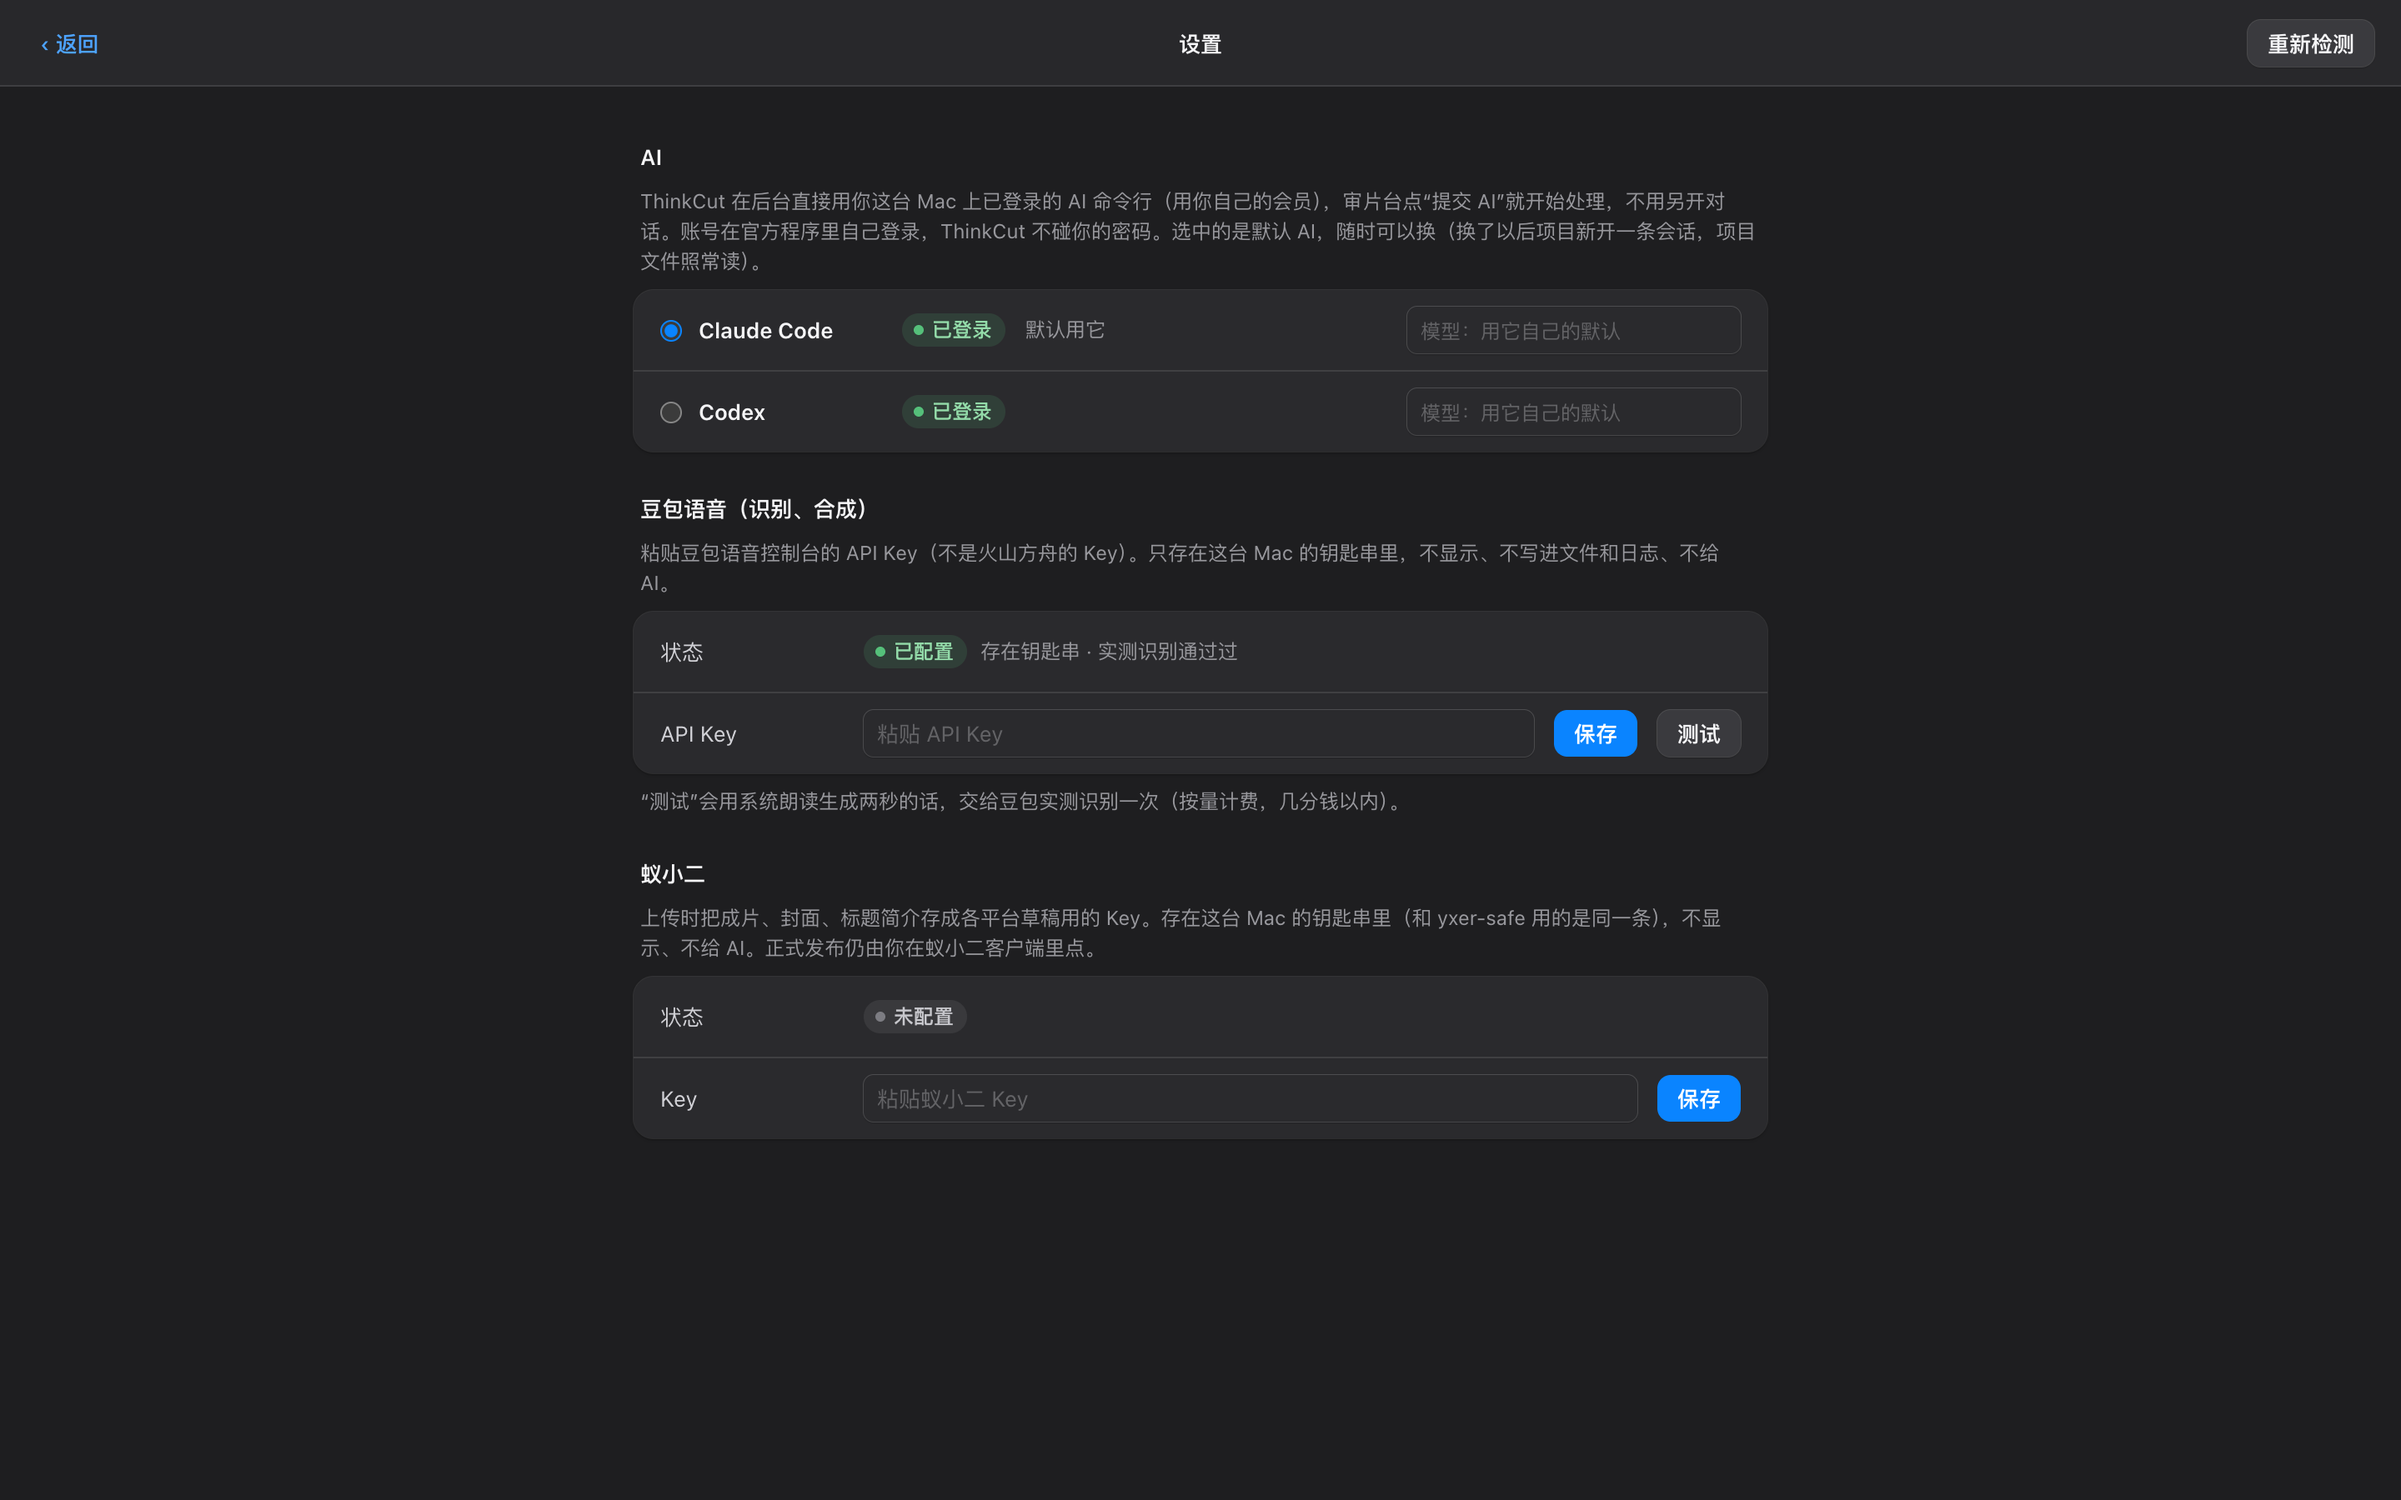
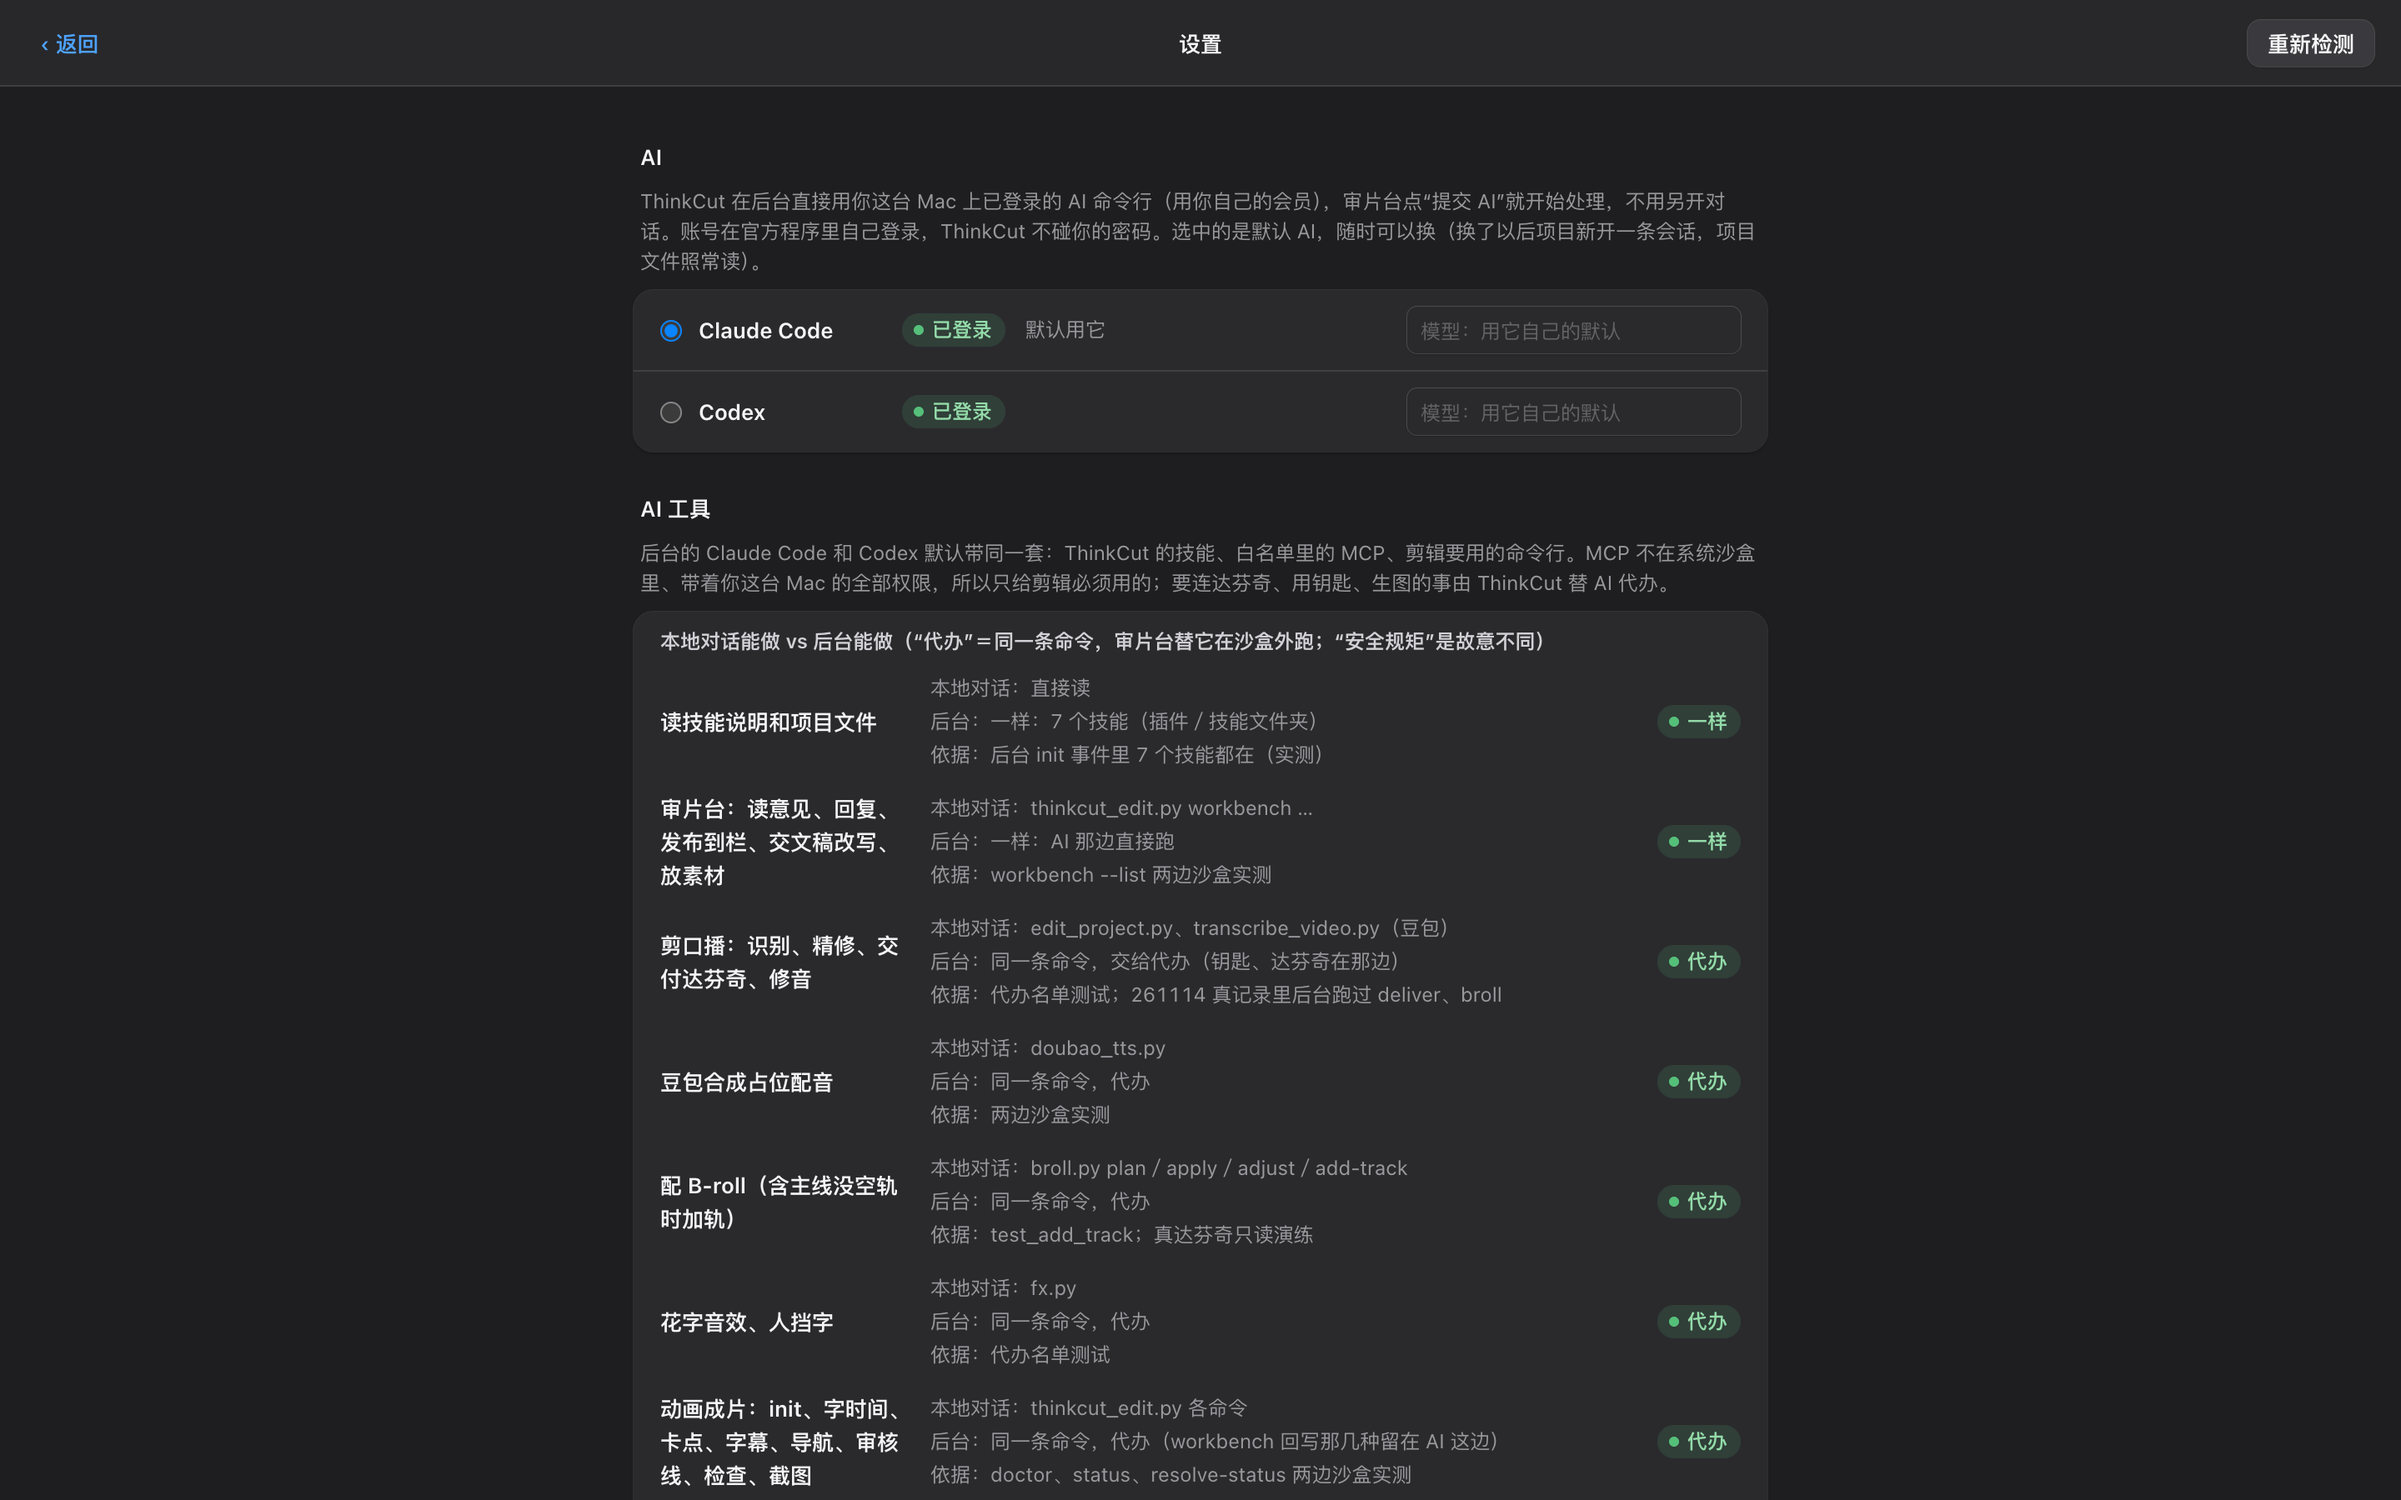
ThinkCut · 思刻 2026-11-28.4：README 和截图跟上新功能

diff --git a/docs/releases/v2026.11.28.3.md b/docs/releases/v2026.11.28.3.md
@@ -1,0 +1,68 @@
+<!-- GitHub Release 说明：2026-11-27.3 到 2026-11-28.3（标签 v2026.11.28.3）。贴进 Release 时整页复制；图片用的是公开仓库 main 上的地址。 -->
+
+# ThinkCut · 思刻 2026-11-28.3
+
+**这几版的大事：剪口播更快，后台 AI 更全。** 口播 1.2 倍速改在达芬奇里设，不再把整条视频重压一遍；后台 AI 带齐了 ThinkCut 的技能，本地对话能做的它都能做，还能在护栏里用达芬奇 MCP；对话框支持斜杠命令。
+
+包含 2026-11-27.3 到 2026-11-28.3 的变化。
+
+<picture>
+  <source media="(prefers-color-scheme: dark)" srcset="https://github.com/devinwu2012/thinkcut/raw/main/docs/screenshots/settings-dark.png">
+  <img alt="设置页：上面选用哪个 AI，下面“AI 工具”逐项对照本地对话和后台各怎么做。" src="https://github.com/devinwu2012/thinkcut/raw/main/docs/screenshots/settings-light.png" width="880">
+</picture>
+
+## 剪口播
+
+- **1.2 倍速不再重压视频**：只把声音做成 1.2 倍速去识别、剪辑，放进达芬奇时用原片设 120% 速度。13 分钟口播从约 10 分钟、几 GB 降到十几秒、几十 MB。说“这条不加速”照旧，老项目不受影响。（2026-11-27.3）
+- **人声剪好后整条修**：`edit_project.py polish` 一条命令在主线的副本上修音（主线不动），忽大忽小的段自动补齐。（2026-11-27.4）
+- **有真口播就用真口播**：先用机器配音占位、后来剪好真口播的项目，口播精剪栏直接显示真口播；保存到达芬奇后项目自动换成真口播。（2026-11-27.5）
+- 重剪口播后，口播精剪栏显示新剪的；新主线的画幅和上一版一样；轻声字尾不再留下长停顿。（2026-11-27.4）
+- 换口播后字的时间跟着重算；在达芬奇里播放时，审片栏的高亮和时间条跟着往前走，暂停后对准达芬奇的实际位置。（2026-11-27.6）
+
+## 后台 AI
+
+- **斜杠命令**：对话框里输入 / 弹出能用的命令，如 /goal（让 AI 一直做到目标达成）、/compact、/context、ThinkCut 的技能，和 /clear、/stop、/model、/help。后台用不了的会说清原因，改权限、关沙盒的命令不放行。（2026-11-27.3）
+- **带齐技能**：Claude 和 Codex 在后台都带同一套 ThinkCut 技能和剪辑要用的命令行，不再带和剪辑无关、能控制电脑或浏览器的 MCP；一律用中文回复。设置页新增“AI 工具”：每个 AI 能用什么、缺什么、为什么不给，一键补齐技能链接。（2026-11-28.1）
+- **本地能做的后台都能做**：Blender 镜头、导航条出片、素材库、交反馈单、新建 IP 等都能在后台做；只剩导出、发布、定稿只认页面，删除进回收站，不给钥匙、不联网这些安全规矩不同。“AI 工具”里有逐项对照表。（2026-11-28.2）
+- **达芬奇 MCP（带护栏）**：后台 AI 能用达芬奇 MCP 看和小改当前工程；渲染导出、删除、切换工程、装插件这类工具整个禁用，别处正在写达芬奇时它不写。（2026-11-28.2）
+- 配 B-roll 时主线只有口播一条画面轨，AI 能先演练、再加一条空的 B-roll 轨（不动片段）；查达芬奇状态有专门的只读命令，不再卡住。（2026-11-28.1）
+
+## 界面
+
+- 窗口窄或打开对话栏时，审片台顶栏的栏目不再被挤没：栏目一直完整显示，AI 和达芬奇的状态先收成小圆点（点开照样能看、能换），实在太窄栏目可以左右滑、当前栏一直看得见；首页顶栏同样按宽度让位。（2026-11-27.4）
+
+## 升级
+
+拿新代码后重新跑一次 `bash bin/build_app.sh --install`（装了 Mac 程序的话），打开“设置”→“AI 工具”，缺技能链接就点“一键补齐”。
+
+完整说明见 [README](https://github.com/devinwu2012/thinkcut#readme)；每版一句话的变化见 [RELEASE_NOTES.md](https://github.com/devinwu2012/thinkcut/blob/main/RELEASE_NOTES.md)。
+
+---
+
+# ThinkCut · 思刻 2026-11-28.3 (English)
+
+**The big changes: faster voice-over cutting and a fully equipped background AI.** The 1.2× speed-up is now set in DaVinci Resolve instead of re-encoding the whole video; the background AI carries all of ThinkCut's skills, can do everything the local chat can, and can use the DaVinci Resolve MCP behind a guard; the chat box supports slash commands.
+
+Covers 2026-11-27.3 through 2026-11-28.3.
+
+## Voice-over cutting
+
+- **1.2× without re-encoding:** only the audio is sped up for transcription and cutting; in Resolve the original clips get a 120% speed. A 13-minute voice-over goes from about 10 minutes and several GB to a dozen seconds and tens of MB. “No speed-up for this one” still works; older projects are unaffected. (2026-11-27.3)
+- **Voice polish after the cut:** `edit_project.py polish` polishes the whole voice track on a copy of the main timeline (the main stays untouched) and evens out loud and quiet stretches. (2026-11-27.4)
+- **Real voice-over wins:** in projects that started with a TTS placeholder, the voice-over column shows the real recording once it's cut, and the project switches to it after saving to Resolve. (2026-11-27.5)
+- After a re-cut, the voice-over column shows the new cut, the new main timeline keeps the previous format, and soft word endings no longer leave long pauses. (2026-11-27.4)
+- Word timings are recalculated after switching voice-overs; while Resolve plays, the Review column's highlight and timeline follow along and line up with Resolve when paused. (2026-11-27.6)
+
+## Background AI
+
+- **Slash commands:** type / in the chat box for /goal (keep working until a goal is met), /compact, /context, ThinkCut's skills, /clear, /stop, /model and /help. Commands the background can't run say why; ones that change permissions or turn off the sandbox are refused. (2026-11-27.3)
+- **Fully equipped:** Claude and Codex both carry the same ThinkCut skills and command-line tools in the background, without unrelated MCP servers that could control the computer or a browser, and always reply in Chinese. New **AI tools** section in Settings: what each AI can use, what's missing and why, with one-click skill linking. (2026-11-28.1)
+- **Same abilities as local chat:** Blender shots, chapter-bar rendering, the footage library, feedback forms, creating profiles and more now work in the background; only the safety rules differ (export/publish/finalize from the page only, deletes go to the recycle folder, no keys, no network). A side-by-side table is in AI tools. (2026-11-28.2)
+- **DaVinci Resolve MCP, guarded:** the background AI can inspect and make small edits to the open project; render/export, delete, project switching and plugin installs are blocked, and it won't write while another session is writing to Resolve. (2026-11-28.2)
+- When the main timeline has only the voice-over video track, the AI can dry-run and then add an empty B-roll track (clips untouched); a read-only command checks Resolve's state without hanging. (2026-11-28.1)
+
+## Interface
+
+- A narrow window or an open chat sidebar no longer squeezes out the column tabs: tabs always stay whole, the AI and Resolve status shrink to dots first (still clickable), and very narrow windows scroll the tabs with the current one in view; the home page's top bar adapts the same way. (2026-11-27.4)
+
+Full documentation: [README](https://github.com/devinwu2012/thinkcut/blob/main/README.en.md).

diff --git a/README.en.md b/README.en.md
@@ -94,7 +94,7 @@ python3 bin/thinkcut_config.py new <name>  # create your own profile ("IP")
 bash bin/build_app.sh --install           # optional: build ThinkCut.app (unsigned: right-click → Open the first time)
 ```
 
-Then open **Settings** (top right of the home page) to sign in to Claude Code / Codex — a Terminal window runs the official login and you sign in yourself — and paste the Doubao and Yixiaoer keys (stored in the Keychain, never shown or written to files). Never paste a key to the AI.
+Then open **Settings** (top right of the home page) to sign in to Claude Code / Codex — a Terminal window runs the official login and you sign in yourself — and paste the Doubao and Yixiaoer keys (stored in the Keychain, never shown or written to files). Never paste a key to the AI. Settings also has an **AI tools** check: which skills, command-line tools and MCP servers each AI can use in the background, what's missing and how to fix it.
 
 Offline tests (also run on GitHub Actions):
 
@@ -155,12 +155,12 @@ Click “Submit to AI” and the desk runs your chosen AI in the background, in 
   <img alt="Chat sidebar: you ask the AI to bring in three B-roll clips and organize them; it lists the renamed files, then summarizes what's waiting in each column with two option buttons." src="docs/screenshots/chat-light.png" width="880">
 </picture>
 
-Press **⌘K** for the chat sidebar. On a project it shares the project's session (“bring in the three B-roll clips on my Desktop”, “where are we?”); on the home page it handles creating projects and finding things. Exporting, publishing and finalizing are never done from chat — they only count when you click them on the page.
+Press **⌘K** for the chat sidebar. On a project it shares the project's session (“bring in the three B-roll clips on my Desktop”, “where are we?”); on the home page it handles creating projects and finding things. Type / for slash commands such as /goal (keep working until a goal is met), /compact, /context, ThinkCut's skills, /clear, /stop and /model; commands that change permissions or turn off the sandbox are refused. Exporting, publishing and finalizing are never done from chat — they only count when you click them on the page.
 
 ## Security
 
 - **Two gates only you can open:** exporting the full video (finalize the Review column) and publishing (you press publish in Yixiaoer; ThinkCut only saves drafts and blocks publish commands).
-- **Sandboxed AI:** the background AI can write only to the project folder and temp; its commands have no network (Claude Code's built-in sandbox; Codex with network off); no permission-bypass flags.
+- **Sandboxed AI:** the background AI can write only to the project folder and temp; its commands have no network (Claude Code's built-in sandbox; Codex with network off); no permission-bypass flags. The DaVinci Resolve MCP is available behind a guard: rendering/exporting, deleting, switching projects and installing plugins are blocked, and it won't write while another session is writing to Resolve.
 - **Keys stay out of reach:** keys live in the Keychain and the AI's environment can't read them. ThinkCut runs allow-listed programs on its behalf, limited to the project folder, scrubbing keys from output.
 - **Your files stay local:** source footage is never modified; hand edits in Resolve are never overwritten; deleting a project moves it to a recycle folder.
 
